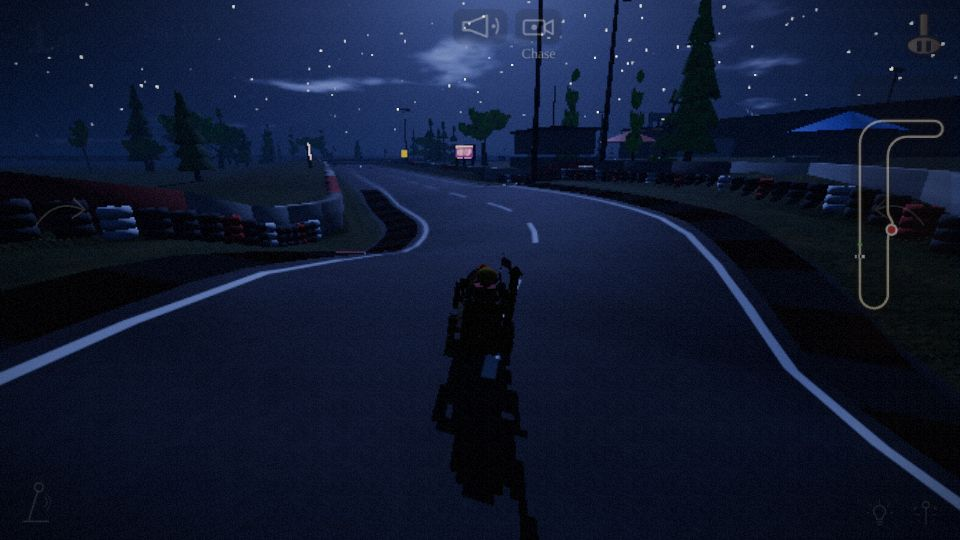
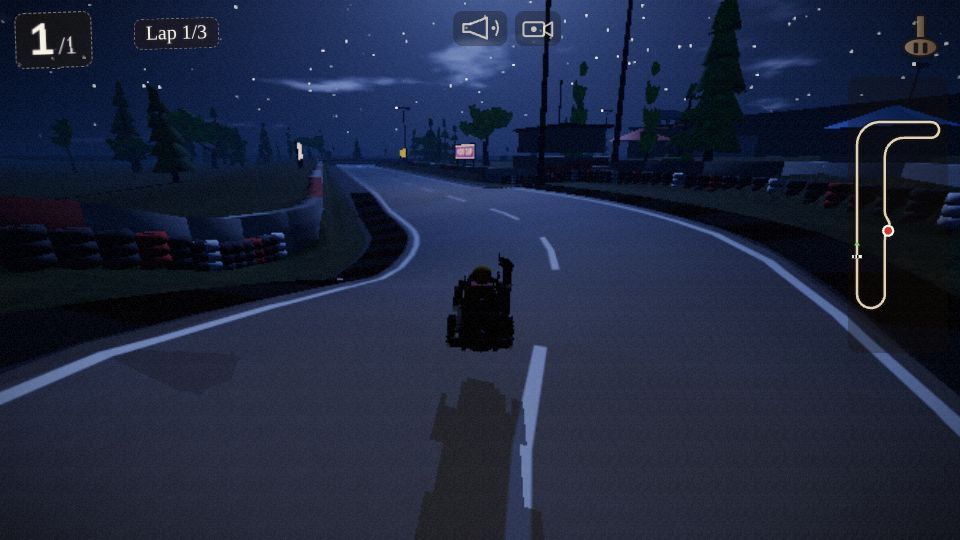
Map round 3: circuit fixes (softer gravel, road-clipped night pools, roof lamps, hairpin billboard, finer run-off grass) + WIP others
Claude-Session: https://claude.ai/code/session_01VQdijxiDxB1XrGopiSbUaQ

diff --git a/src/scene/tracks/village.js b/src/scene/tracks/village.js
@@ -69,7 +69,7 @@ export function planVillage(seed) {
         const pts = [[A0.px, A0.pz], [A.px, A.pz]];
         const nseg = 6;
         for (let k = 1; k < nseg; k++) {
-          const u = k / nseg, wig = pd.kind === 'alley' ? (k % 2 ? 2.2 : -2.2) * Math.sin(Math.PI * u) : 0;
+          const u = k / nseg, wig = pd.kind === 'alley' ? (k % 2 ? 3.5 : -3.5) * Math.sin(Math.PI * u) : 0;
           const bulge = amp * Math.sin(Math.PI * u) ** 1.3;
           pts.push([A.px + chord[0] * u + nx * (bulge + wig), A.pz + chord[1] * u + nz * (bulge + wig)]);
         }
@@ -430,10 +430,10 @@ export function planVillage(seed) {
             }
             for (const [ri, nb] of [[i0, i0 - 1], [i1, i1 + 1]]) {   // end-posts where the wall stops at a junction
               if (nb < 0 || nb >= n || rowR[nb] !== 2) continue;
-              const s = (road.length * ri) / (n - 1); road.atS(s, pp); const tp = wallTop(road, s, sg), yaw = Math.atan2(-pp.rhz, pp.rhx), d = sg * (pp.hw + ROW + 0.95);
+              const s = (road.length * ri) / (n - 1); road.atS(s, pp); const tp = Math.min(wallTop(road, s, sg), 1.1), yaw = Math.atan2(-pp.rhz, pp.rhx), d = sg * (pp.hw + ROW + 0.95);   // gore-tip posts stay low (a bollard, not a slab standing in the street)
               const prog = road.map ? road.map.fromS + (s / road.map.len) * (road.map.toS - road.map.fromS) : s, bb = batchOf(prog), top = tp + 0.12;
-              bb.add('concrete', boxG(2.5, top + 0.9, 0.85, 1.5), xf(pp.px + pp.rhx * d, pp.py + (top - 0.9) / 2, pp.pz + pp.rhz * d, 0, yaw, 0), [0.88, 0.84, 0.76]);
-              bb.add('concrete', boxG(2.7, 0.14, 1.05, 1), xf(pp.px + pp.rhx * d, pp.py + top + 0.07, pp.pz + pp.rhz * d, 0, yaw, 0), [0.78, 0.75, 0.7]);
+              bb.add('concrete', boxG(1.7, top + 0.9, 0.85, 1.5), xf(pp.px + pp.rhx * d, pp.py + (top - 0.9) / 2, pp.pz + pp.rhz * d, 0, yaw, 0), [0.88, 0.84, 0.76]);
+              bb.add('concrete', boxG(1.9, 0.14, 1.05, 1), xf(pp.px + pp.rhx * d, pp.py + top + 0.07, pp.pz + pp.rhz * d, 0, yaw, 0), [0.78, 0.75, 0.7]);
             }
           }
           i0 = i1 + 1;
@@ -591,11 +591,11 @@ export function planVillage(seed) {
       for (const bd of branches) if (bd.splitId === sp.id) {
         bd.road.atS(30, qq); const lat = (qq.px - f.px) * f.rx + (qq.pz - f.pz) * f.rz;   // true side of the branch ~30 m into it
         let tip = null;   // first point along the branch where the gap to Main Street exceeds 5 m: the gore pocket opens here
-        for (let sx = 6; sx < 90; sx += 1) { bd.road.atS(sx, pp); const c = reg.clear(pp.px, pp.pz, bd.road.id) - pp.hw; if (c > 5) { tip = { sx, hw: pp.hw, px: pp.px, pz: pp.pz, rx: pp.rhx, rz: pp.rhz, py: pp.py }; break; } }
+        for (let sx = 6; sx < 90; sx += 1) { bd.road.atS(sx, pp); const c = reg.clear(pp.px, pp.pz, bd.road.id) - pp.hw; if (c > 3.9) { tip = { sx, hw: pp.hw, px: pp.px, pz: pp.pz, rx: pp.rhx, rz: pp.rhz, py: pp.py }; break; } }
         rows.push({ name: bd.name, lat: Math.abs(lat) < 5 ? (lat >= 0 ? 6 : -6) : lat, tip, bd });
       }
       rows.sort((p1, p2) => p1.lat - p2.lat);
-      const fp = rows.filter((r) => r.tip)[0];
+      const fp = rows.filter((r) => r.tip).sort((p1, p2) => p1.tip.sx - p2.tip.sx)[0];
       if (fp) {   // fingerpost between the two diverging roads at the tip of the gore, facing the approaching carts
         const mdir = frameAt(main, sp.fromS + 22), t = fp.tip, sgM = Math.sign((mdir.px - t.px) * t.rx + (mdir.pz - t.pz) * t.rz) || 1;
         fork.set(sp.id, { rows, tip: fp.tip, bd: fp.bd, sgM });

diff --git a/src/scene/tracks/circuit.js b/src/scene/tracks/circuit.js
@@ -147,7 +147,7 @@ export function planCircuit(seed) {
     const warmMat = new THREE.MeshBasicMaterial({ color: new THREE.Color(0.6, 0.55, 0.42) });
     const lampMat = new THREE.MeshBasicMaterial({ vertexColors: true });
     let lampAttr = null, lampVerts = 0;   // one merged mesh, one colour per lamp (vertex colours) = a single draw call
-    const poolMat = new THREE.MeshBasicMaterial({ vertexColors: true, transparent: true, opacity: 0, depthWrite: false, blending: THREE.AdditiveBlending, polygonOffset: true, polygonOffsetFactor: -6, polygonOffsetUnits: -6 });
+    const poolMat = new THREE.MeshBasicMaterial({ vertexColors: true, side: THREE.DoubleSide, transparent: true, opacity: 0, depthWrite: false, blending: THREE.AdditiveBlending, polygonOffset: true, polygonOffsetFactor: -6, polygonOffsetUnits: -6 });
     const merged = (list) => { const gs = list.map(([g, m]) => { const c = g.clone(); c.applyMatrix4(m); return c; }); const g = mergeGeometries(gs, false); g.computeBoundingSphere(); return g; };
 
     // ---- draped strip along the road: rows every `step` metres, d from dA to dB, uv = (u across 0..1, v = s / vLen) ----
@@ -544,12 +544,12 @@ export function planCircuit(seed) {
         }
         for (let r = 0; r < rows - 1; r++) for (let k = 0; k < COLS - 1; k++) { const i0 = base + r * COLS + k; idx.push(i0, i0 + COLS, i0 + 1, i0 + 1, i0 + COLS, i0 + COLS + 1); }
       };
-      strip(0, LAP, 4, () => [0.11, 0.14, 0.22]);   // cool fill so carts never read as black cut-outs
+      strip(0, LAP, 4, () => [0.004, 0.0055, 0.01]);   // cool fill so carts never read as black cut-outs
       for (const [ts] of towerS) {
         const R = 26;
         strip(ts - R, ts + R, 2, (s, u, um) => {
           const a = Math.abs(s - ts) / R, f = a >= 1 ? 0 : (1 + Math.cos(Math.PI * a)) * 0.5, lat = 1 - 0.45 * u * u, hp = 1 - 0.55 * smoothstep(0.02, 0.04, Math.abs(kapAt(um)));
-          const v = 0.8 * f * f * lat * hp; return [v, v * 0.84, v * 0.6];
+          const v = 0.02 * f * f * lat * hp; return [v, v * 0.84, v * 0.6];
         });
       }
       const g = new THREE.BufferGeometry(); g.setAttribute('position', new THREE.Float32BufferAttribute(Pa, 3)); g.setAttribute('color', new THREE.Float32BufferAttribute(Ca, 3)); g.setIndex(idx); g.computeBoundingSphere(); return g;

diff --git a/src/ai/driver.js b/src/ai/driver.js
@@ -22,7 +22,7 @@ export function forwardXZ(q) {
 export function createAIDriver(profile, { world, rng, spec, rubberBand = 1, human, headlight } = {}) {
   // On the slower tracks the terrain, not the driver, sets the speed unless the driver holds back: tier the target speed by skill.
   const TRACK_CAP = { village: (k) => 8.2 + 7.6 * k, corn: (k) => 9.0 + 8.0 * k };
-  const PACE_K = { village: 0.45, corn: 0.45 };
+  const PACE_K = { village: 0.8, corn: 0.8 };
   const capFn = TRACK_CAP[world.trackId];
   const flat = !!(world.flags && world.flags.flat);
   // corn / village: the good drivers dig in harder (a solid human paddler out-paces them otherwise); the back of the field is untouched
